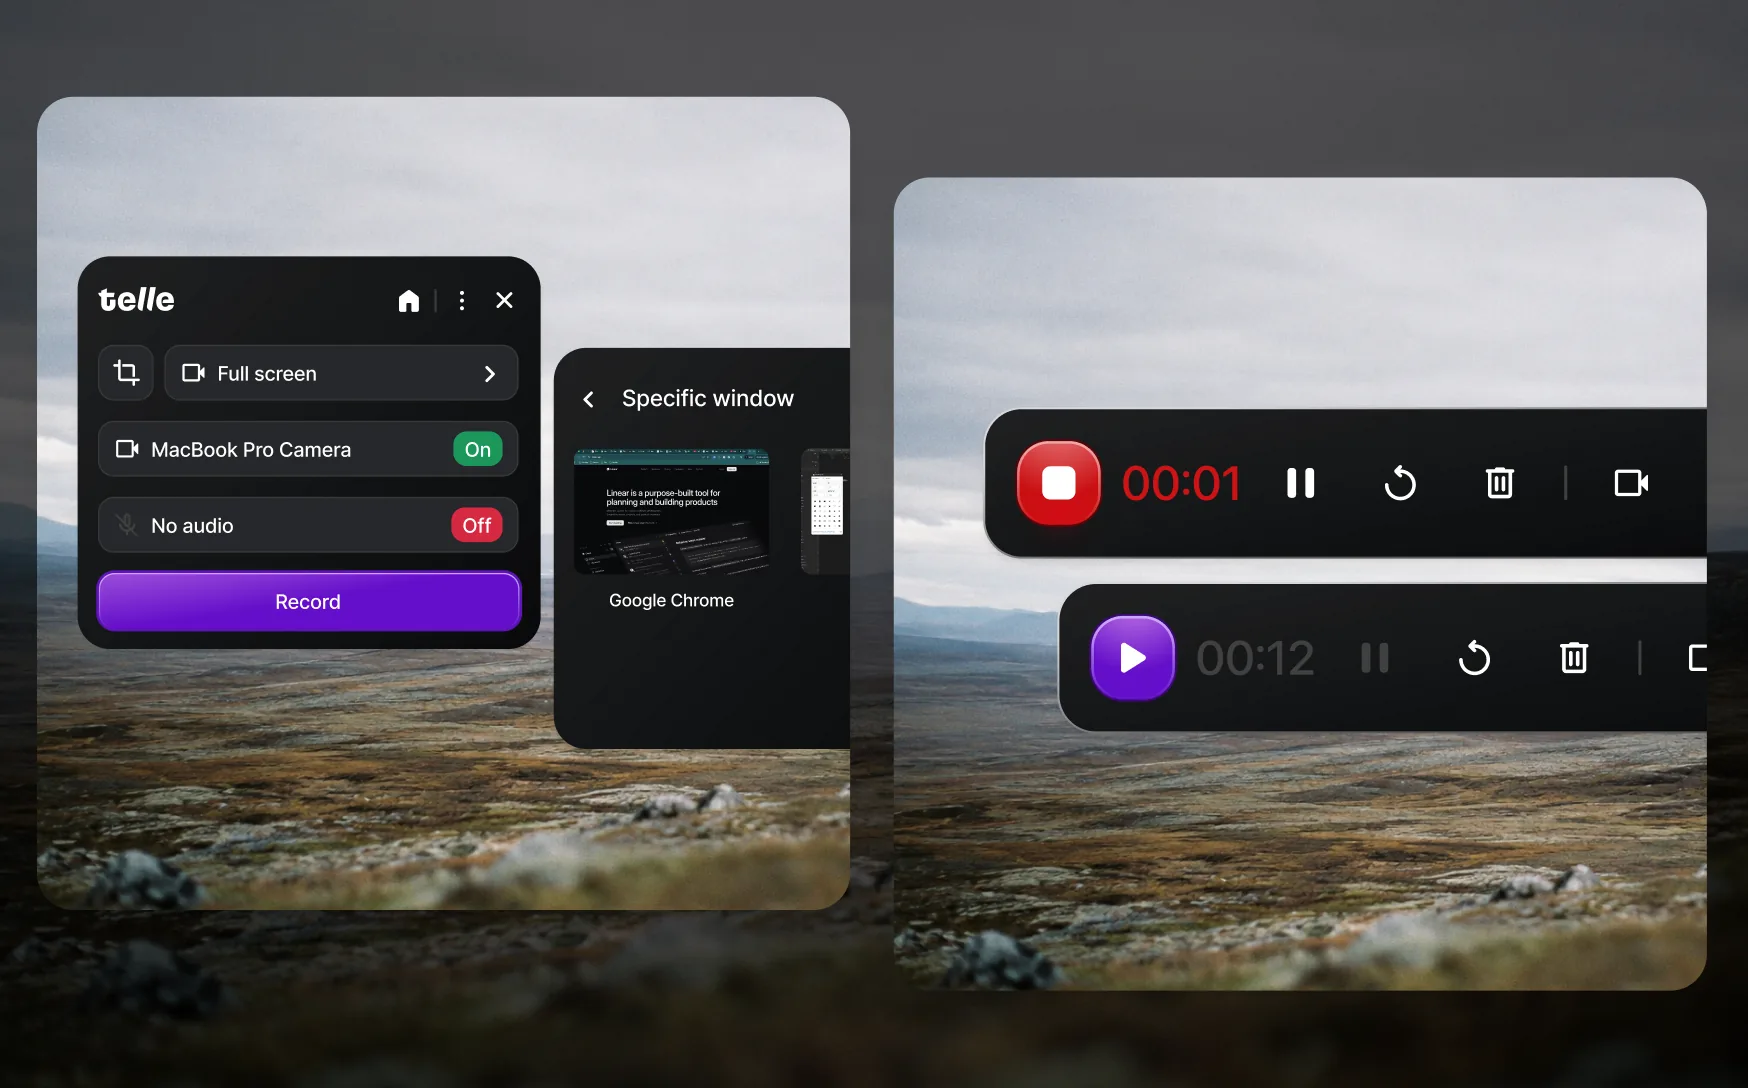
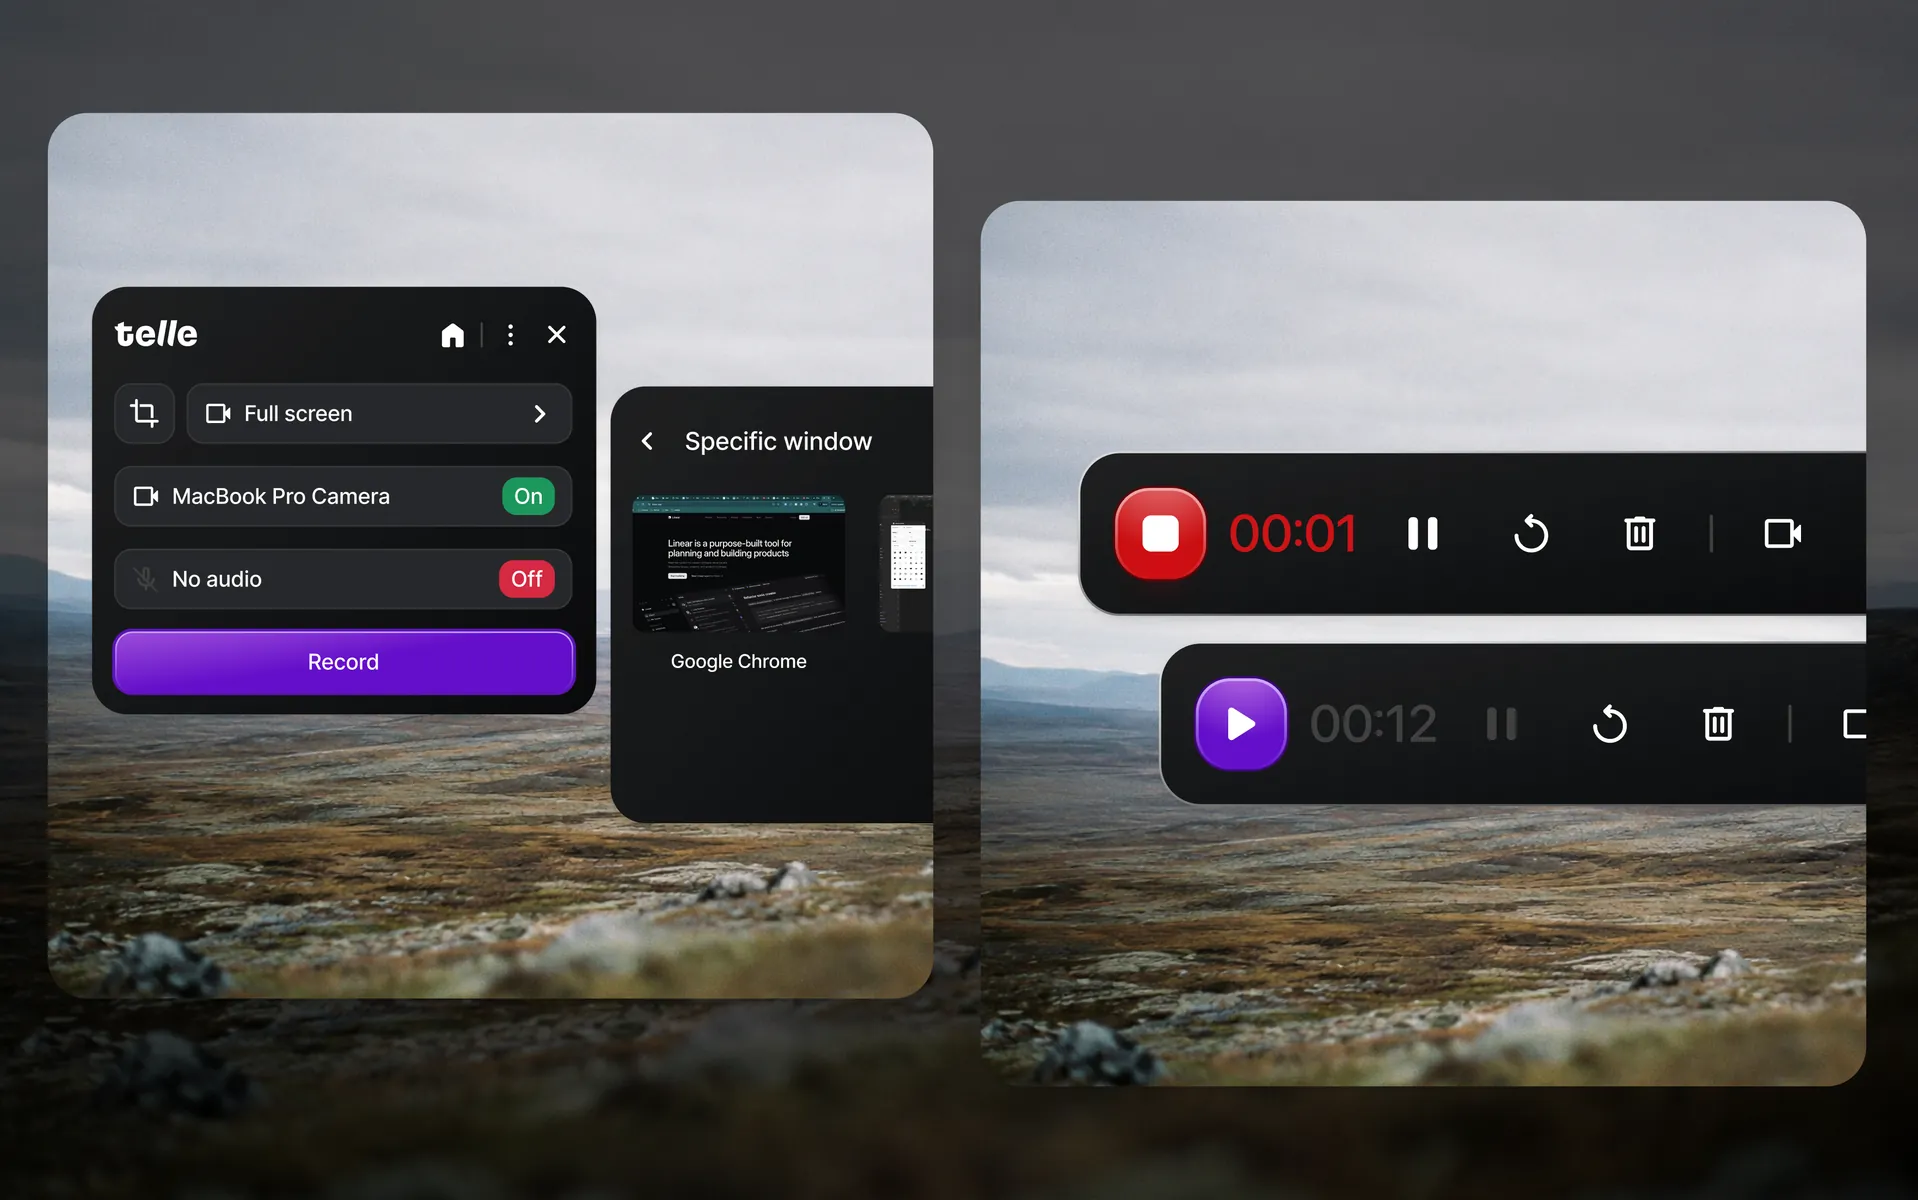
Size the carousel for the card it actually fills
The last pass measured the cards in a narrow window and sized the files to
that. Past 1246px the card stops growing with the window and stands at
600px tall, which on a retina screen is 1200 device pixels and up to 2128
across — against files 1712 wide. Every card was drawing at 1.6x, which is
what still read soft.

So each picture comes down from Figma well above that and is resized to
exactly 1200 tall: every card now draws at 2.00x, and the supersampling on
the way down pays for itself in the thin UI type these screenshots are full
of. The eight design frames come from the artboards Maciej has since
doubled, so there is real detail behind the resolution; `skillIntraction`
now comes from that component too rather than from the smaller copy on the
visuals board.

The corner crop is unchanged in intent — each picture trimmed by its own
radius so the card's 24px is the only one — but a runaway reading is now
held under 6% of the short side, which a dark element lying along an edge
could previously push far past the real arc.

Thirteen files, 1.3 MB, lazy-loaded as before.

diff --git a/src/data/v2.ts b/src/data/v2.ts
@@ -247,19 +247,19 @@ export const v2: SiteContent = {
       body: "We designed Tellent's video interview experience end to end — from screen recording setup to review and collaborative feedback — helping hiring teams evaluate candidates without scheduling a live call.",
     },
     images: [
-      { src: "/assets/img/work/showcase-01.webp", alt: "Hiring workspace home with events, tasks, candidate sources and the assistant prompt", width: 866, height: 497 },
-      { src: "/assets/img/work/showcase-02.webp", alt: "Interview scenario document with the agent chat panel alongside", width: 866, height: 497 },
-      { src: "/assets/img/work/showcase-03.webp", alt: "Light-mode home with the assistant prompt over the recent conversations list", width: 866, height: 497 },
-      { src: "/assets/img/work/showcase-04.webp", alt: "Invite people to your session dialog with access levels per person", width: 866, height: 866 },
-      { src: "/assets/img/work/showcase-05.webp", alt: "Prompt field with the skills dropdown open by category", width: 866, height: 544 },
-      { src: "/assets/img/work/design-01.webp", alt: "Telle video library, dark desktop interface", width: 866, height: 544 },
-      { src: "/assets/img/work/design-02.webp", alt: "Tellent Videos welcome screen with the recording setup", width: 874, height: 544 },
-      { src: "/assets/img/work/design-03.webp", alt: "Telle video review with the comment activity panel", width: 866, height: 544 },
-      { src: "/assets/img/work/design-04.webp", alt: "Telle recorder settings and recording controls", width: 874, height: 544 },
-      { src: "/assets/img/work/design-05.webp", alt: "Throne app hydration dashboard and session details", width: 866, height: 544 },
-      { src: "/assets/img/work/design-06.webp", alt: "Throne app onboarding and daily hydration score", width: 866, height: 544 },
-      { src: "/assets/img/work/design-07.webp", alt: "Throne Journal onboarding for the gut health coach", width: 866, height: 544 },
-      { src: "/assets/img/work/design-08.webp", alt: "Hiring agent dashboard with chat and candidate pipeline", width: 874, height: 544 },
+      { src: "/assets/img/work/showcase-01.webp", alt: "Hiring workspace home with events, tasks, candidate sources and the assistant prompt", width: 1054, height: 600 },
+      { src: "/assets/img/work/showcase-02.webp", alt: "Interview scenario document with the agent chat panel alongside", width: 1054, height: 600 },
+      { src: "/assets/img/work/showcase-03.webp", alt: "Light-mode home with the assistant prompt over the recent conversations list", width: 1054, height: 600 },
+      { src: "/assets/img/work/showcase-04.webp", alt: "Invite people to your session dialog with access levels per person", width: 600, height: 600 },
+      { src: "/assets/img/work/showcase-05.webp", alt: "Prompt field with the skills dropdown open by category", width: 946, height: 600 },
+      { src: "/assets/img/work/design-01.webp", alt: "Telle video library, dark desktop interface", width: 946, height: 600 },
+      { src: "/assets/img/work/design-02.webp", alt: "Tellent Videos welcome screen with the recording setup", width: 960, height: 600 },
+      { src: "/assets/img/work/design-03.webp", alt: "Telle video review with the comment activity panel", width: 946, height: 600 },
+      { src: "/assets/img/work/design-04.webp", alt: "Telle recorder settings and recording controls", width: 959, height: 600 },
+      { src: "/assets/img/work/design-05.webp", alt: "Throne app hydration dashboard and session details", width: 956, height: 600 },
+      { src: "/assets/img/work/design-06.webp", alt: "Throne app onboarding and daily hydration score", width: 956, height: 600 },
+      { src: "/assets/img/work/design-07.webp", alt: "Throne Journal onboarding for the gut health coach", width: 966, height: 600 },
+      { src: "/assets/img/work/design-08.webp", alt: "Hiring agent dashboard with chat and candidate pipeline", width: 959, height: 600 },
     ],
   },
 

diff --git a/src/data/v1.ts b/src/data/v1.ts
@@ -241,19 +241,19 @@ export const v1: SiteContent = {
     title: "Our design work",
     hint: "Click or swipe right",
     images: [
-      { src: "/assets/img/work/showcase-01.webp", alt: "Hiring workspace home with events, tasks, candidate sources and the assistant prompt", width: 866, height: 497 },
-      { src: "/assets/img/work/showcase-02.webp", alt: "Interview scenario document with the agent chat panel alongside", width: 866, height: 497 },
-      { src: "/assets/img/work/showcase-03.webp", alt: "Light-mode home with the assistant prompt over the recent conversations list", width: 866, height: 497 },
-      { src: "/assets/img/work/showcase-04.webp", alt: "Invite people to your session dialog with access levels per person", width: 866, height: 866 },
-      { src: "/assets/img/work/showcase-05.webp", alt: "Prompt field with the skills dropdown open by category", width: 866, height: 544 },
-      { src: "/assets/img/work/design-01.webp", alt: "Telle video library, dark desktop interface", width: 866, height: 544 },
-      { src: "/assets/img/work/design-02.webp", alt: "Tellent Videos welcome screen with the recording setup", width: 874, height: 544 },
-      { src: "/assets/img/work/design-03.webp", alt: "Telle video review with the comment activity panel", width: 866, height: 544 },
-      { src: "/assets/img/work/design-04.webp", alt: "Telle recorder settings and recording controls", width: 874, height: 544 },
-      { src: "/assets/img/work/design-05.webp", alt: "Throne app hydration dashboard and session details", width: 866, height: 544 },
-      { src: "/assets/img/work/design-06.webp", alt: "Throne app onboarding and daily hydration score", width: 866, height: 544 },
-      { src: "/assets/img/work/design-07.webp", alt: "Throne Journal onboarding for the gut health coach", width: 866, height: 544 },
-      { src: "/assets/img/work/design-08.webp", alt: "Hiring agent dashboard with chat and candidate pipeline", width: 874, height: 544 },
+      { src: "/assets/img/work/showcase-01.webp", alt: "Hiring workspace home with events, tasks, candidate sources and the assistant prompt", width: 1054, height: 600 },
+      { src: "/assets/img/work/showcase-02.webp", alt: "Interview scenario document with the agent chat panel alongside", width: 1054, height: 600 },
+      { src: "/assets/img/work/showcase-03.webp", alt: "Light-mode home with the assistant prompt over the recent conversations list", width: 1054, height: 600 },
+      { src: "/assets/img/work/showcase-04.webp", alt: "Invite people to your session dialog with access levels per person", width: 600, height: 600 },
+      { src: "/assets/img/work/showcase-05.webp", alt: "Prompt field with the skills dropdown open by category", width: 946, height: 600 },
+      { src: "/assets/img/work/design-01.webp", alt: "Telle video library, dark desktop interface", width: 946, height: 600 },
+      { src: "/assets/img/work/design-02.webp", alt: "Tellent Videos welcome screen with the recording setup", width: 960, height: 600 },
+      { src: "/assets/img/work/design-03.webp", alt: "Telle video review with the comment activity panel", width: 946, height: 600 },
+      { src: "/assets/img/work/design-04.webp", alt: "Telle recorder settings and recording controls", width: 959, height: 600 },
+      { src: "/assets/img/work/design-05.webp", alt: "Throne app hydration dashboard and session details", width: 956, height: 600 },
+      { src: "/assets/img/work/design-06.webp", alt: "Throne app onboarding and daily hydration score", width: 956, height: 600 },
+      { src: "/assets/img/work/design-07.webp", alt: "Throne Journal onboarding for the gut health coach", width: 966, height: 600 },
+      { src: "/assets/img/work/design-08.webp", alt: "Hiring agent dashboard with chat and candidate pipeline", width: 959, height: 600 },
     ],
   },
 
